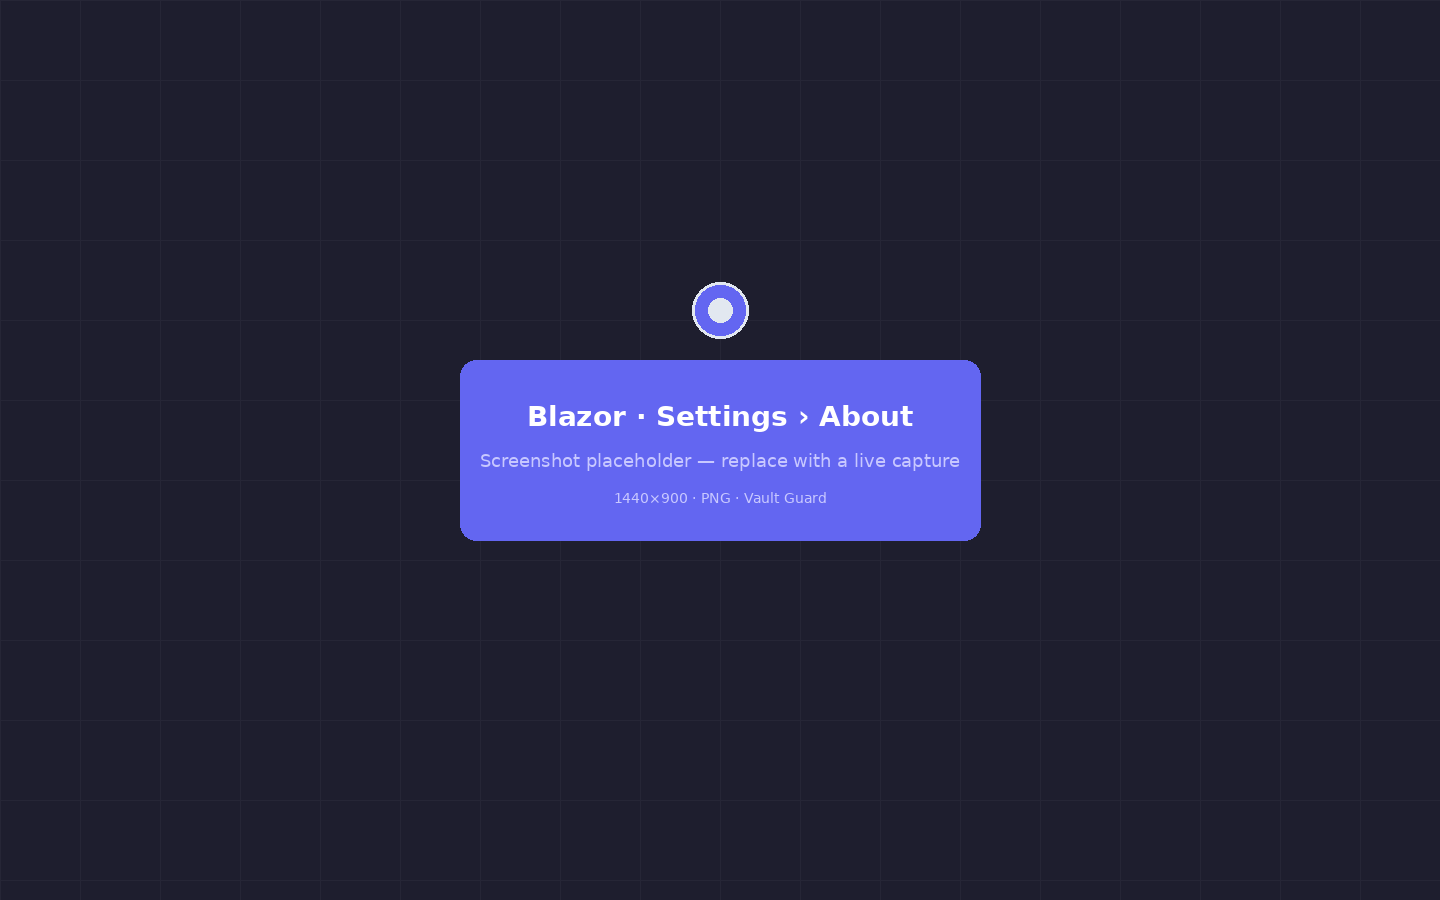
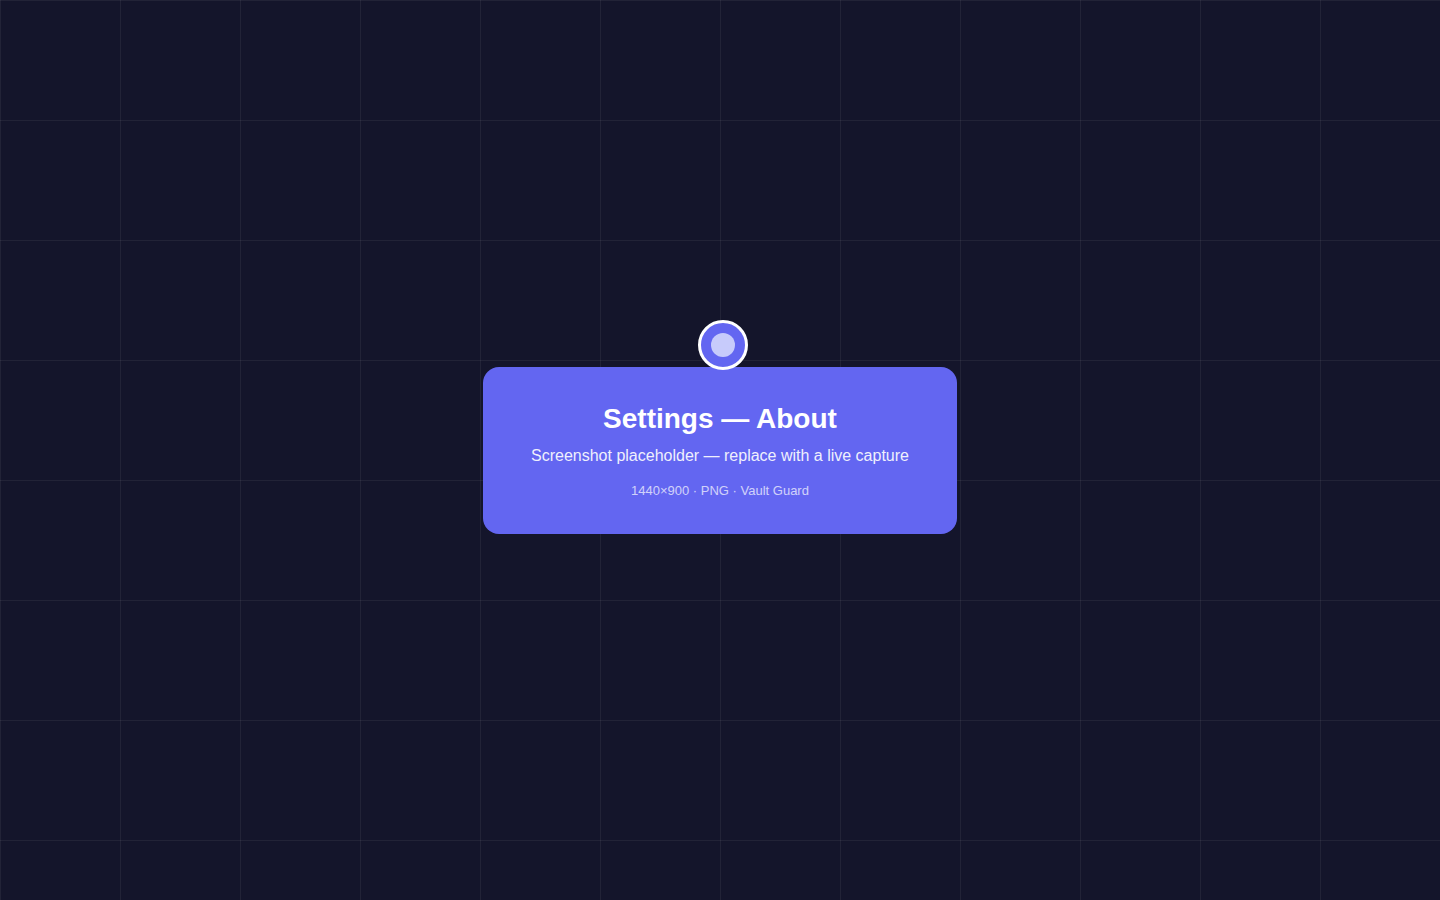
Expand screenshot coverage: onboarding, profile, and full settings tour
The Playwright capture harness only screenshotted the top-level nav
pages plus whatever settings tab happened to be active by default.
Settings is actually one page with 11 deep-linkable tabs
(/settings?tab=<name>, see Settings.razor) covering security,
appearance, database, sync, notifications, vaults, the password
generator, encryption, shortcuts, maintenance, and about - none of
which had their own screenshot.

- Added a pre-auth onboarding pass (database setup wizard, sign-in/
  profile picker) captured once into screenshots/blazor/onboarding,
  since those pages have no theme toggle available yet.
- Added /profile and all 10 non-default settings tabs to the main
  per-theme capture pass.
- Removed a handful of stale pre-existing screenshots (database-
  settings.png, passwords.png, settings-about.png, etc.) left over
  from an older, differently-named capture set.
- Checked in placeholder PNGs (matching the existing placeholder
  style) for everything new so the docs site builds cleanly until
  the Capture Screenshots workflow produces real ones.
- Rebuilt the Web platform docs page around this: a new "Getting set
  up" section, a full settings tour grid, and a Profile section.

Changed region(s): [[0.3125, 0.3111, 0.6875, 0.6222]]

diff --git a/VaultGuard.Tests.Playwright/ScreenshotCaptureTests.cs b/VaultGuard.Tests.Playwright/ScreenshotCaptureTests.cs
@@ -4,9 +4,10 @@ using Microsoft.VisualStudio.TestTools.UnitTesting;
 namespace VaultGuard.Tests.Playwright;
 
 /// <summary>
-/// On-demand utility that regenerates the Blazor web screenshots referenced by the READMEs.
-/// It boots the web app (temp SQLite DB, auto-seeded), signs in with the seeded account, then captures
-/// every key page in BOTH dark and light themes, writing PNGs straight into
+/// On-demand utility that regenerates the Blazor web screenshots referenced by the READMEs and docs site.
+/// It boots the web app (temp SQLite DB, auto-seeded), captures the pre-auth setup/login screens once
+/// (<c>screenshots/blazor/onboarding</c>), then signs in with the seeded account and captures every key
+/// page - including all 11 Settings tabs - in BOTH dark and light themes, writing PNGs straight into
 /// <c>screenshots/blazor/dark</c> and <c>screenshots/blazor/light</c> at the repo root.
 ///
 /// Run it explicitly (it needs a browser + display / headless Chromium):
@@ -37,7 +38,29 @@ public class ScreenshotCaptureTests : BlazorWebTestBase
         ("/api-keys",                  "api-keys"),
         ("/import",                    "import"),
         ("/audit-logs",                "audit-logs"),
-        ("/settings",                  "settings"),
+        ("/profile",                   "profile"),
+        // Settings is one page with 11 deep-linkable tabs (/settings?tab=<name>, see Settings.razor) -
+        // capture each so the docs site can walk through the full settings surface, not just whichever
+        // tab happens to be selected by default.
+        ("/settings",                  "settings"), // defaults to the first tab (Security)
+        ("/settings?tab=Appearance",   "settings-appearance"),
+        ("/settings?tab=Database",     "settings-database"),
+        ("/settings?tab=Sync",         "settings-sync"),
+        ("/settings?tab=Notifications","settings-notifications"),
+        ("/settings?tab=Vaults",       "settings-vaults"),
+        ("/settings?tab=Generator",    "settings-generator"),
+        ("/settings?tab=Encryption",   "settings-encryption"),
+        ("/settings?tab=Shortcuts",    "settings-shortcuts"),
+        ("/settings?tab=Maintenance",  "settings-maintenance"),
+        ("/settings?tab=About",        "settings-about"),
+    };
+
+    // Pre-authentication pages (database setup wizard, sign-in/profile picker) - captured once, before
+    // SignInAsync, since there's no theme toggle available yet on these (EmptyLayout, no nav drawer).
+    private static readonly (string Route, string Name)[] OnboardingPages =
+    {
+        ("/setup", "database-setup"),
+        ("/login", "login"),
     };
 
     private static string ScreenshotsRoot => Path.GetFullPath(
@@ -50,12 +73,17 @@ public class ScreenshotCaptureTests : BlazorWebTestBase
 
         var darkDir = Path.Combine(ScreenshotsRoot, "dark");
         var lightDir = Path.Combine(ScreenshotsRoot, "light");
+        var onboardingDir = Path.Combine(ScreenshotsRoot, "onboarding");
         Directory.CreateDirectory(darkDir);
         Directory.CreateDirectory(lightDir);
-
-        await SignInAsync();
+        Directory.CreateDirectory(onboardingDir);
 
         var captured = 0;
+
+        foreach (var (route, name) in OnboardingPages)
+            captured += await CaptureAsync(onboardingDir, route, name) ? 1 : 0;
+
+        await SignInAsync();
 
         await SetThemeAsync("Dark");
         foreach (var (route, name) in Pages)

diff --git a/docs-site/platforms/web.md b/docs-site/platforms/web.md
@@ -7,9 +7,21 @@ no separate backend for the web app to call.
 These are captured by the `Capture Screenshots` GitHub Actions workflow
 (`.github/workflows/screenshots.yml`), which runs `ScreenshotCaptureTests` in
 `VaultGuard.Tests.Playwright` against the current app on every push that touches the web app or its
-shared UI, and commits fresh PNGs straight into `screenshots/blazor/{dark,light}`. To regenerate
-locally: `HEADED=0 dotnet test VaultGuard.Tests.Playwright --filter FullyQualifiedName~ScreenshotCaptureTests`.
+shared UI, and commits fresh PNGs straight into `screenshots/blazor/{dark,light,onboarding}`. To
+regenerate locally: `HEADED=0 dotnet test VaultGuard.Tests.Playwright --filter FullyQualifiedName~ScreenshotCaptureTests`.
 :::
+
+## Getting set up
+
+First run walks you through picking a database provider (SQLite, SQL Server, or MySQL/MariaDB) and
+editing its connection settings on one screen, then unlocking with your master key:
+
+<div class="screenshot-grid">
+  <figure><img src="/screenshots/blazor/onboarding/database-setup.png" alt="Database setup wizard" /><figcaption>Database Setup</figcaption></figure>
+  <figure><img src="/screenshots/blazor/onboarding/login.png" alt="Sign-in / profile picker" /><figcaption>Sign In</figcaption></figure>
+</div>
+
+See the [Getting Started guide](/guide/getting-started) for the full self-hosting walkthrough.
 
 ## Dashboard
 
@@ -48,10 +60,29 @@ Every item type shares one dynamic form engine across all four apps:
   <figure><img src="/screenshots/api-credentials-form.png" alt="API credentials form" /><figcaption>API Credentials</figcaption></figure>
 </div>
 
-## Settings & import
+## Settings tour
+
+Settings is one page with 11 deep-linkable tabs (`/settings?tab=<name>`) - everything from vault
+encryption and two-factor auth to notification channels and update checks lives here:
 
 <div class="screenshot-grid">
-  <figure><img src="/screenshots/blazor/dark/settings.png" alt="Settings" /><figcaption>Settings</figcaption></figure>
+  <figure><img src="/screenshots/blazor/dark/settings.png" alt="Security tab" /><figcaption>Security</figcaption></figure>
+  <figure><img src="/screenshots/blazor/dark/settings-appearance.png" alt="Appearance tab" /><figcaption>Appearance (theme, colour, UI zoom)</figcaption></figure>
+  <figure><img src="/screenshots/blazor/dark/settings-database.png" alt="Database tab" /><figcaption>Database</figcaption></figure>
+  <figure><img src="/screenshots/blazor/dark/settings-sync.png" alt="Sync tab" /><figcaption>Sync</figcaption></figure>
+  <figure><img src="/screenshots/blazor/dark/settings-notifications.png" alt="Notifications tab" /><figcaption>Notifications</figcaption></figure>
+  <figure><img src="/screenshots/blazor/dark/settings-vaults.png" alt="Vaults tab" /><figcaption>Vaults</figcaption></figure>
+  <figure><img src="/screenshots/blazor/dark/settings-generator.png" alt="Generator tab" /><figcaption>Password Generator</figcaption></figure>
+  <figure><img src="/screenshots/blazor/dark/settings-encryption.png" alt="Encryption tab" /><figcaption>Encryption</figcaption></figure>
+  <figure><img src="/screenshots/blazor/dark/settings-shortcuts.png" alt="Shortcuts tab" /><figcaption>Keyboard Shortcuts</figcaption></figure>
+  <figure><img src="/screenshots/blazor/dark/settings-maintenance.png" alt="Maintenance tab" /><figcaption>Maintenance</figcaption></figure>
+  <figure><img src="/screenshots/blazor/dark/settings-about.png" alt="About tab" /><figcaption>About</figcaption></figure>
+</div>
+
+## Profile & import
+
+<div class="screenshot-grid">
+  <figure><img src="/screenshots/blazor/dark/profile.png" alt="Profile" /><figcaption>Profile</figcaption></figure>
   <figure><img src="/screenshots/blazor/dark/import.png" alt="Import" /><figcaption>Import</figcaption></figure>
 </div>
 
